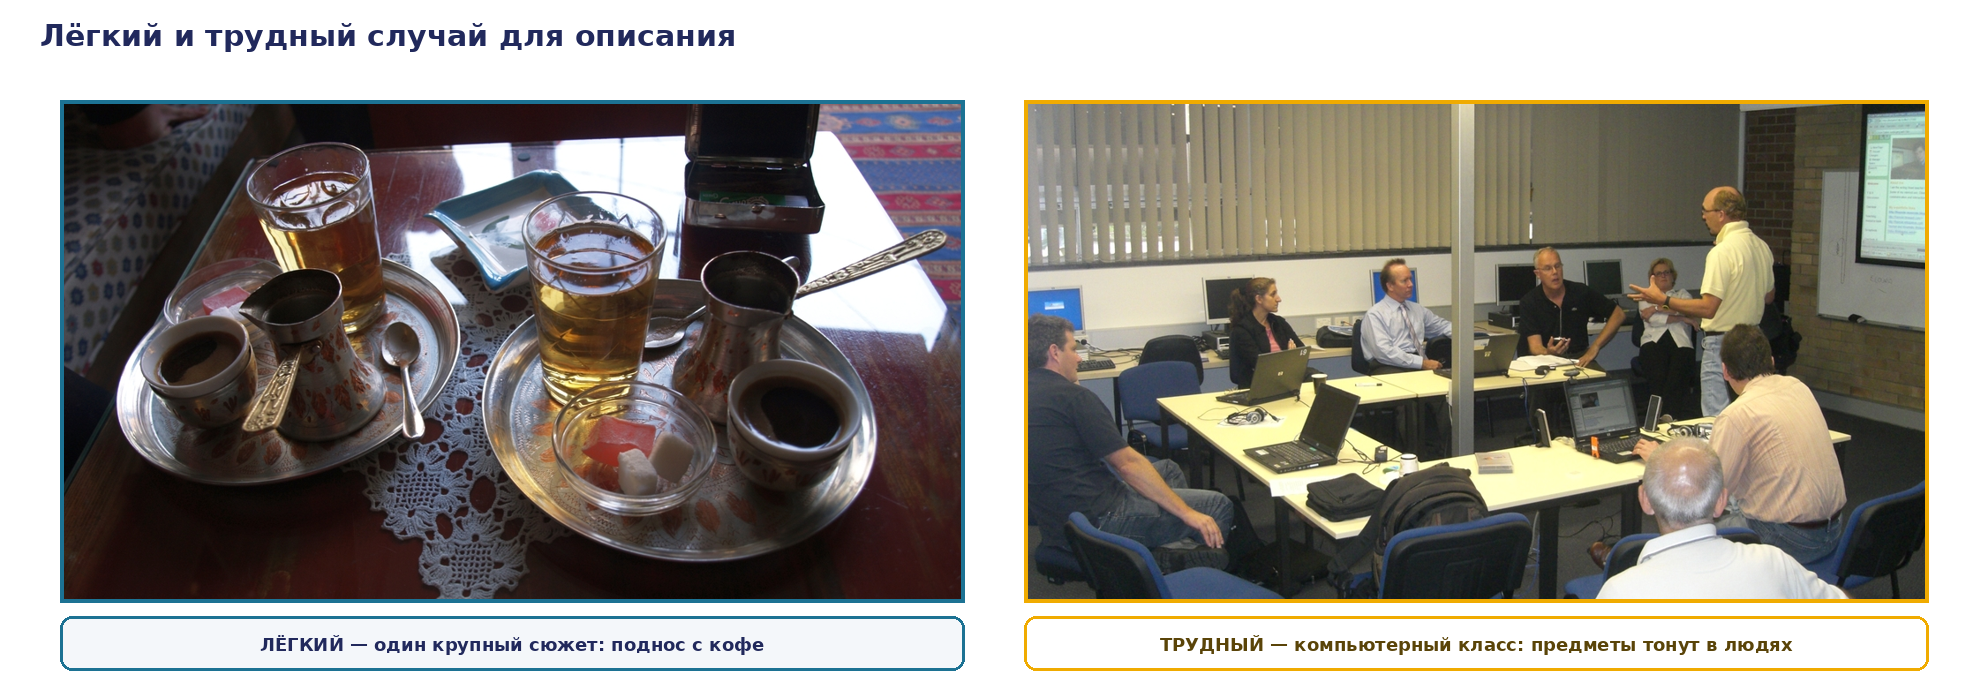
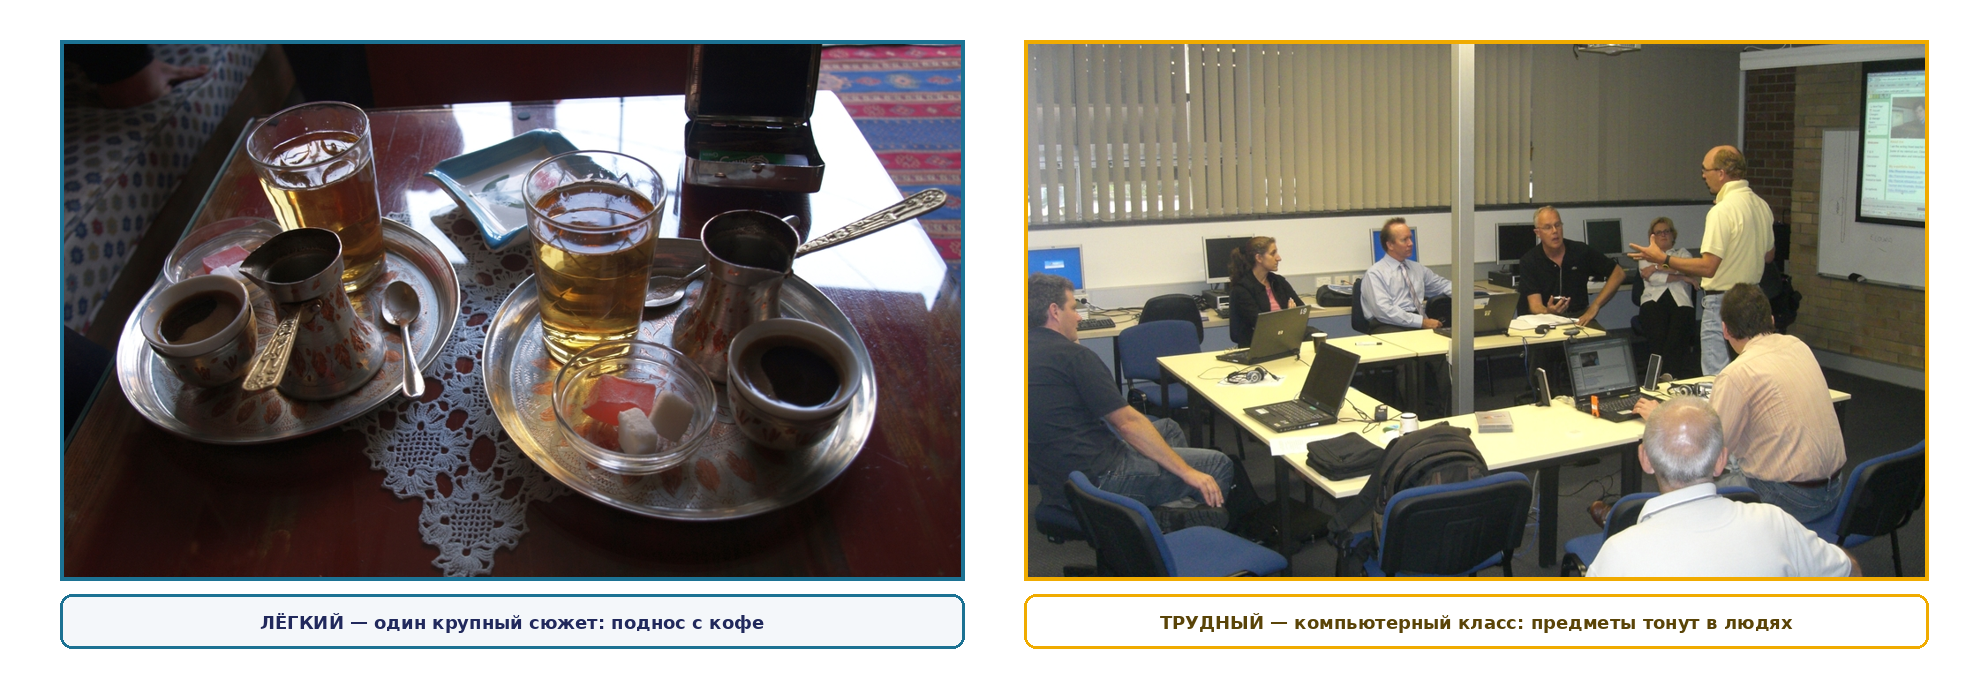
Короткий круг доводки: снять дубль заголовка в фигурах, плашки n32 вровень
- make_figures_B.py: сняты head() у case_b_light_hard() и
  case_b_confab_example() — заголовок даёт кадр, не фигура (тот же
  дубль уже чинили у case_b_corpus_overview, правило закреплено в
  шапке модуля). Освобождённая высота ушла на увеличение снимков
  (light_hard 904×502→904×540, confab 550×430→600×470)
- n33: с опустевшим верхом фигуры и увеличенным снимком фигура меньше
  сжимается сборкой (55%→63% площади); дополнительно убрал из плашки
  повтор кейса "доска-флипчарт", уже бывшего в таблице
- n32: вторая плашка («уверенность детектора не измеряет его
  правоту») ложно ловилась правилом roles.py как caveat (оговорка) на
  слове «не измер» и рендерилась слабее первой — переформулировано
  без триггерного слова, обе плашки теперь одного веса

issue #351

diff --git a/library/seminars/sem-12/rendered/make_figures_B.py b/library/seminars/sem-12/rendered/make_figures_B.py
@@ -25,6 +25,13 @@
                                   которого на снимке нет (заполняется после
                                   получения vision-результатов).
 
+Правило заголовка (круг 3, #351 — третий повтор дубля, после `case_b_corpus_overview`
+и кейса A в этом же занятии): заголовок кадра даёт сам кадр (frontmatter/`# Title`
+слайда) — ни одна функция здесь не зовёт `head()` для своего собственного текста
+заголовка. Фигура рисует только то, чего на кадре больше нигде нет: подпись-ссылку
+на данные, подписи панелей, вердикты. Повторная проверка перед добавлением новой
+функции — искать `head(d, "` в этом файле: если находится, это дубль.
+
 Запуск (из своей папки):
 
     cd library/seminars/sem-12/rendered
@@ -201,13 +208,13 @@ def case_b_light_hard():
     отношении фигура на кадре берёт всю отведённую ширину 12,23″, а не
     72% от нёй, как при прежних пропорциях. Две панели шире и ниже —
     для двухпанельного сопоставления это естественнее прежнего, подписям
-    тоже просторнее."""
+    тоже просторнее. Заголовок не рисуется фигурой — его даёт кадр n31
+    (правка #351 круг 3: снят дубль, что уже числился за `case_b_corpus_overview`)."""
     im = Image.new("RGB", (1988, 700), W)
     d = ImageDraw.Draw(im)
-    head(d, "Лёгкий и трудный случай для описания", sz=30)
 
-    pw, ph = 904, 502
-    gx1, gx2, gy = 60, 1024, 100
+    pw, ph = 904, 540
+    gx1, gx2, gy = 60, 1024, 40
     _paste_fit(im, CORPUS / "8cb7d659e2d0a541.jpg", gx1, gy, pw, ph)
     _paste_fit(im, CORPUS / "d50064dfabf0fbd5.jpg", gx2, gy, pw, ph)
 
@@ -230,13 +237,13 @@ def case_b_confab_example():
 
     Холст 1700×600 (отношение 2,83, было 1700×700/2,43) — правка #351
     round 2: при 2,43 фигура на кадре n33 сжималась сборкой до ~70% ширины
-    («СХЕМА ЗАЖАТА») после того, как под неё добавили плашку вывода."""
+    («СХЕМА ЗАЖАТА») после того, как под неё добавили плашку вывода.
+    Заголовок не рисуется фигурой — его даёт кадр n33 (правка #351 круг 3)."""
     im = Image.new("RGB", (1700, 600), W)
     d = ImageDraw.Draw(im)
-    head(d, "Выдумка рассказа: проверено по кадру", sz=30)
 
-    pw, ph = 550, 430
-    gx, gy = 60, 95
+    pw, ph = 600, 470
+    gx, gy = 60, 40
     _paste_fit(im, CORPUS / "2ebe189cf7049839.jpg", gx, gy, pw, ph)
     d.rectangle([gx, gy, gx + pw, gy + ph], outline=GOLD, width=4)
 

diff --git a/library/seminars/sem-12/slides/n32-svod-zamera.md b/library/seminars/sem-12/slides/n32-svod-zamera.md
@@ -33,7 +33,7 @@ visual:
 
 > **Разрыв с бесплатным методом — 31 процентный пункт, не шесть строк.** Детектор словарём COCO мог бы в принципе назвать 512 строк разметки из 732 (69,9%, его потолок) — и называет 183, лишь 35,7% собственного потолка. Рассказ берёт на 227 строк больше. Детектор не исчерпал себя: две трети того, что способен назвать, он пока не называет.
 
-> **Уверенность детектора не измеряет его правоту.** 9 ложных тегов из 44 держатся на уверенности ≥0,5, худший — `tv: 0,908`: меловая доска прочитана как телевизор с уверенностью 91%, хотя разметка прямо говорит «экрана и проектора нет». Порог можно поднять — но это отсечёт только пятую часть ошибок и заодно часть верных тегов.
+> **Уверенность детектора и его правота — разные вещи.** 9 ложных тегов из 44 держатся на уверенности ≥0,5, худший — `tv: 0,908`: меловая доска прочитана как телевизор с уверенностью 91%, хотя разметка прямо говорит «экрана и проектора нет». Порог можно поднять — но это отсечёт только пятую часть ошибок и заодно часть верных тегов.
 
 ## Speaker notes
 

diff --git a/library/seminars/sem-12/slides/n33-razbor-vydumki.md b/library/seminars/sem-12/slides/n33-razbor-vydumki.md
@@ -30,7 +30,7 @@ visual:
 | «Плетёные кресла» · доска «возможно, с содержимым» | диван с обивкой · «доска пустая» |
 | «слушатели» во мн. числе · доска названа флипчартом | один слушатель · сосед по снимку — доска верно |
 
-> **Одна оговорка подтвердилась дважды, другая не обобщилась.** «Плетёный» даёт выдумку на двух разных снимках и предметах — кресла здесь, корзина на другом кадре корпуса. А доску, однажды названную флипчартом, та же модель на соседнем снимке называет верно.
+> **«Плетёный» подтвердился дважды, не единожды.** Кресла здесь — и плетёная корзина на другом кадре корпуса, тот же механизм. Флипчарт из таблицы слева так не повторился — закономерности нет.
 
 ## Speaker notes
 
